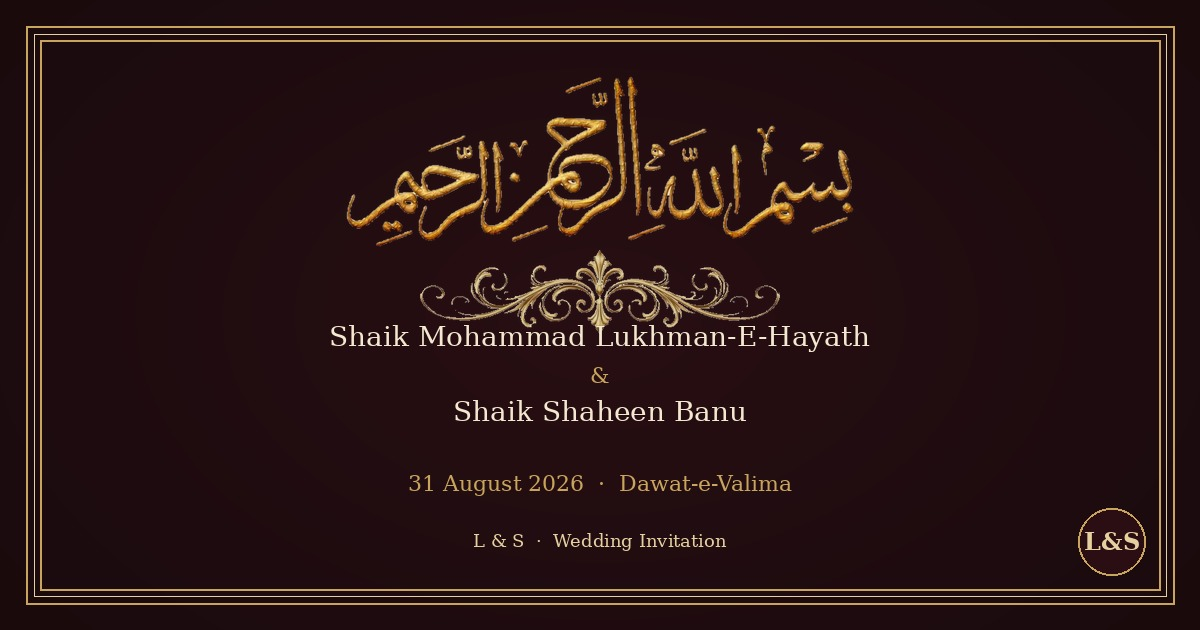
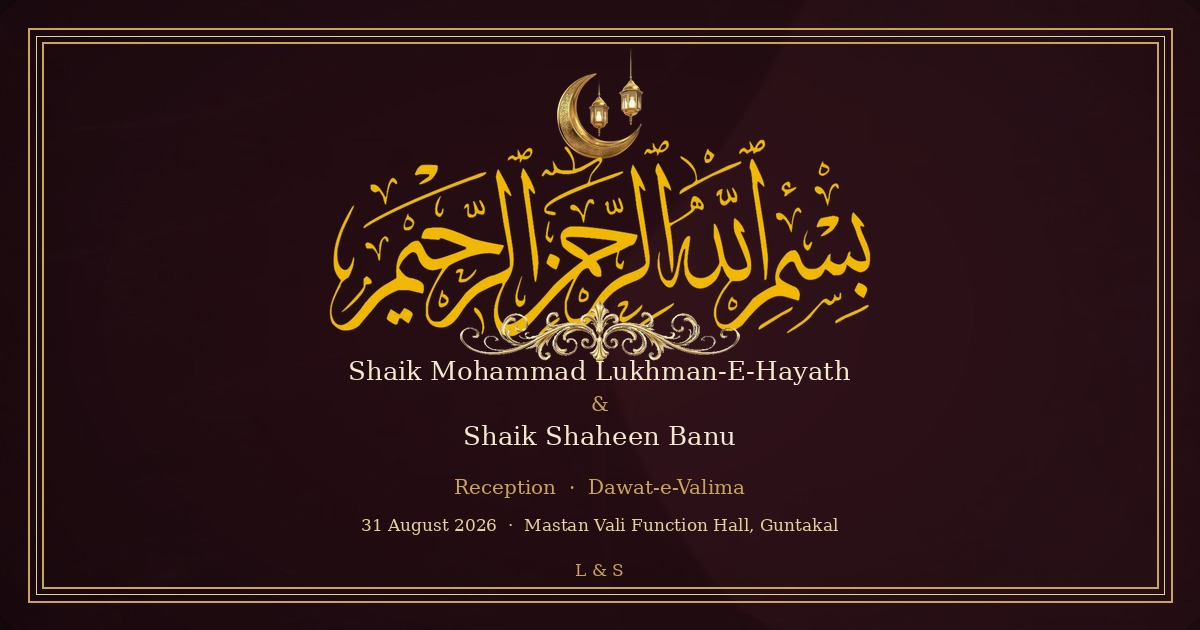
Upgrade Bismillah, crescent accent, grain texture, and OG.
Replace the low-res calligraphy with HD gold artwork, add a crescent lamp, soften the invite with paper grain, and refresh WhatsApp preview for reception.

diff --git a/src/components/HeroInvitation.tsx b/src/components/HeroInvitation.tsx
@@ -31,16 +31,28 @@ export function HeroInvitation() {
           opened ? "translate-y-0 opacity-100" : "translate-y-4 opacity-0"
         }`}
       >
-        <Image
-          src="/wedding/calligraphy/bismillah.png"
-          alt="Bismillah"
-          width={340}
-          height={120}
-          priority
-          className="mb-8 h-auto w-[min(82vw,340px)] object-contain drop-shadow-[0_2px_12px_rgba(0,0,0,0.45)]"
-        />
+        <div className="relative mb-3 flex w-full flex-col items-center">
+          <Image
+            src="/wedding/ornaments/crescent-lamp.webp"
+            alt=""
+            width={120}
+            height={153}
+            priority
+            className="relative z-[1] mb-1 h-auto w-[min(28vw,110px)] object-contain drop-shadow-[0_0_18px_rgba(201,164,92,0.35)]"
+            draggable={false}
+          />
+          <Image
+            src="/wedding/calligraphy/bismillah.webp"
+            alt="Bismillah ir-Rahman ir-Rahim"
+            width={520}
+            height={200}
+            priority
+            className="relative z-[1] h-auto w-[min(92vw,400px)] object-contain drop-shadow-[0_4px_18px_rgba(0,0,0,0.55)]"
+            draggable={false}
+          />
+        </div>
 
-        <p className="max-w-[22ch] font-[family-name:var(--font-cormorant)] text-[0.95rem] leading-relaxed text-[color:var(--ivory)]/88 sm:max-w-none sm:text-base">
+        <p className="mt-5 max-w-[22ch] font-[family-name:var(--font-cormorant)] text-[0.95rem] leading-relaxed text-[color:var(--ivory)]/88 sm:max-w-none sm:text-base">
           {WEDDING.openingBlessing.line1}
           <br />
           {WEDDING.openingBlessing.line2}

diff --git a/src/app/globals.css b/src/app/globals.css
@@ -86,6 +86,19 @@ body {
     linear-gradient(180deg, #14101c 0%, #0e1018 40%, #120a10 100%);
 }
 
+/* Soft printed paper / velvet grain - luxury without noise */
+.invite-bg::after {
+  content: "";
+  pointer-events: none;
+  position: absolute;
+  inset: 0;
+  background-image: url("/wedding/textures/invite-grain.webp");
+  background-size: 420px 420px;
+  background-repeat: repeat;
+  opacity: 0.22;
+  mix-blend-mode: soft-light;
+}
+
 .invite-frame::before,
 .invite-frame::after {
   content: "";

diff --git a/src/app/layout.tsx b/src/app/layout.tsx
@@ -37,7 +37,7 @@ export const metadata: Metadata = {
         url: "/og/invite-og.jpg",
         width: 1200,
         height: 630,
-        alt: "Lukhman & Shaheen Wedding Invitation",
+        alt: "Lukhman & Shaheen Reception Invitation",
       },
     ],
     type: "website",
